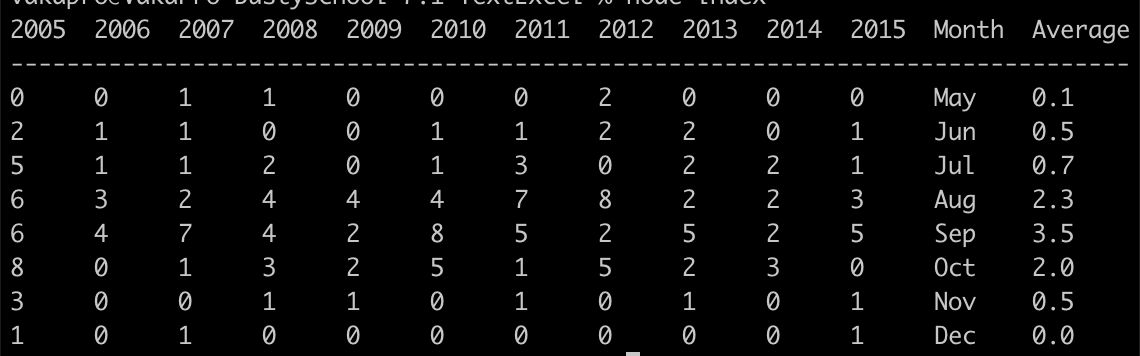
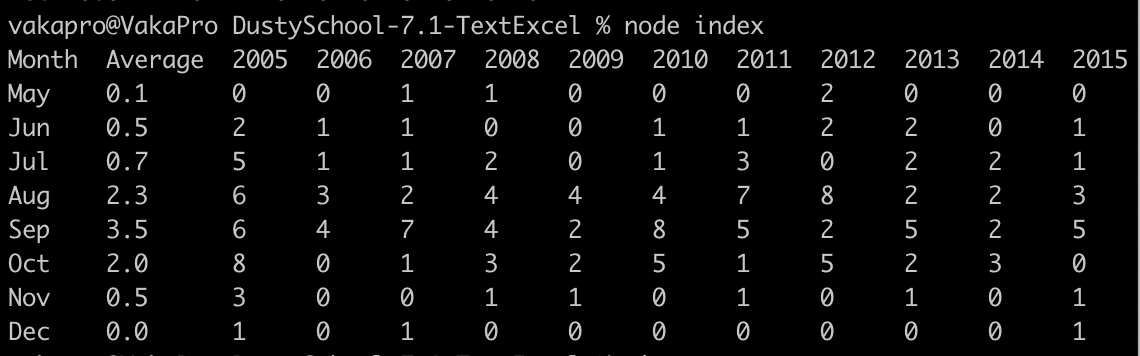
correct README.md

diff --git a/README.md b/README.md
@@ -11,6 +11,6 @@
 </details>
 
 \
-**Результат:** Сервер переводит csv to ASCII, но сортировка ключей, на основании которых потом сортируется объект не помогла и заголовки таблицы выводятся в неверном порядке: Месяц и среднее значение должны быть первым и вторым столбцом соответственно
+**Описание:** Сервер переводит c csv to JSON в ввиде массива объектов, далее сортирует массив значений заголовка таблицы, используя значения которого вынимаются значения из остальных объектов полученного массива объектов и создается массив массивов, которые в дальнейшем отрисовываются в таблицу.
 
 ![Результат](image.png)
